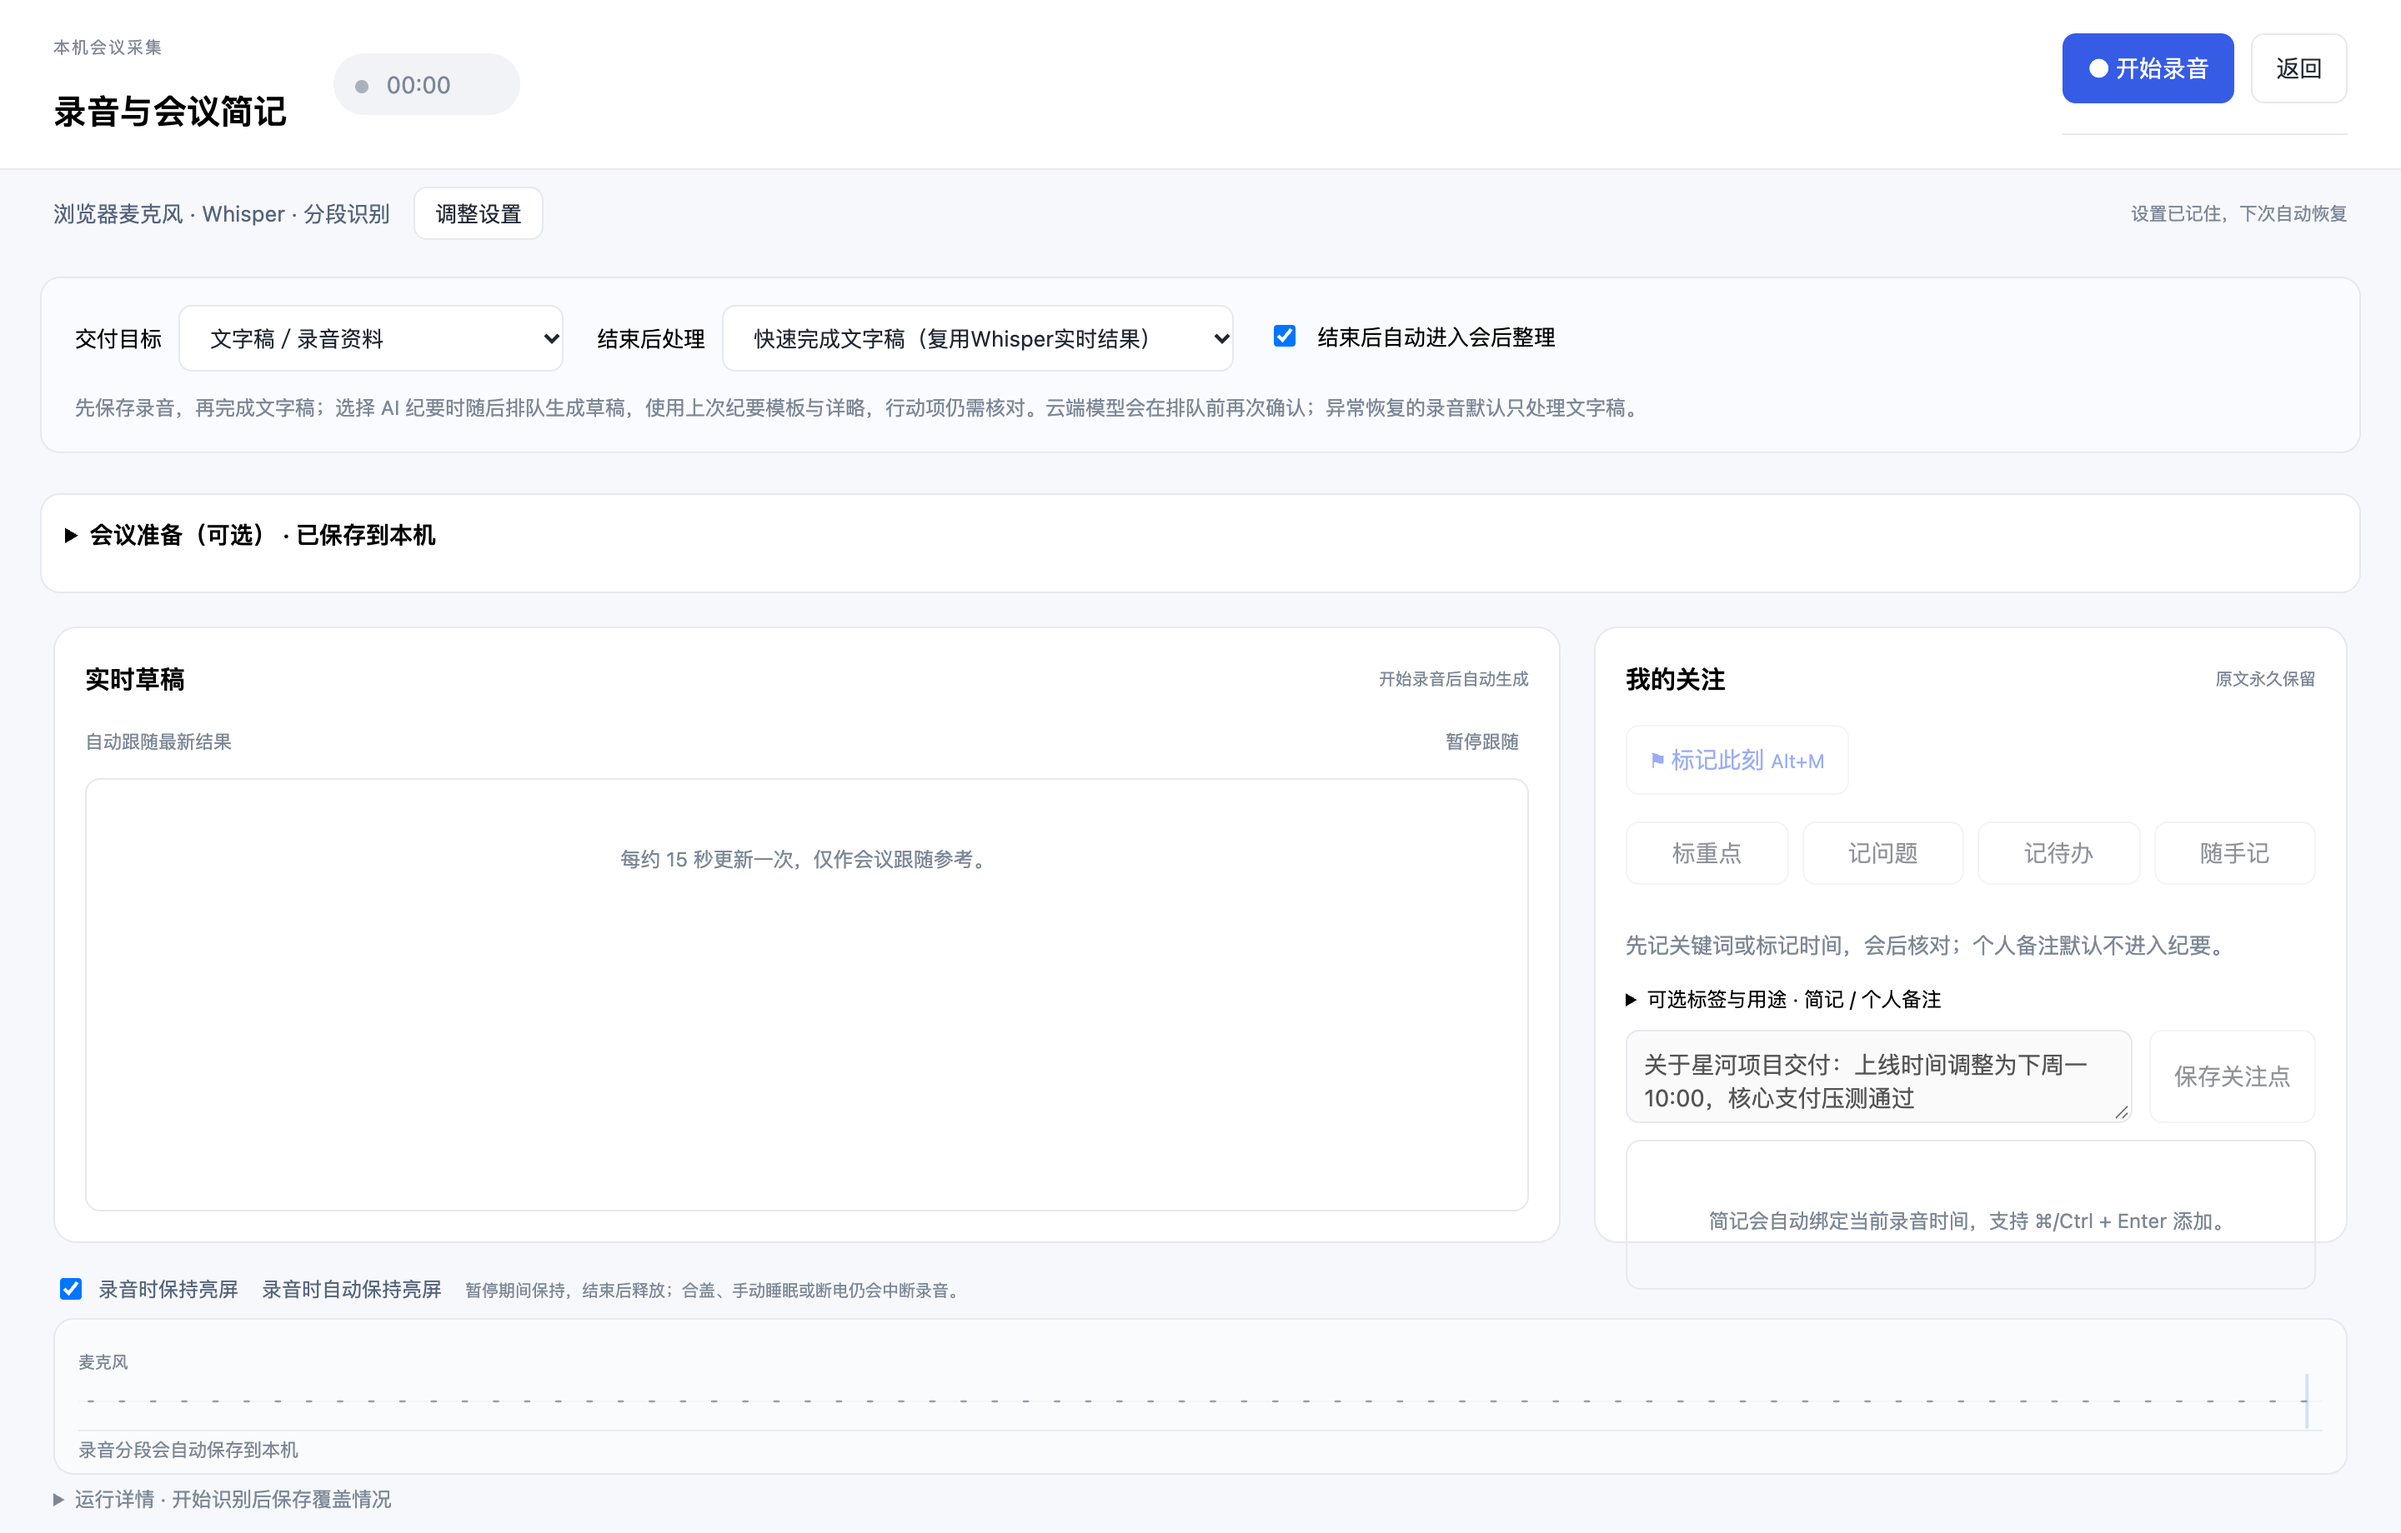
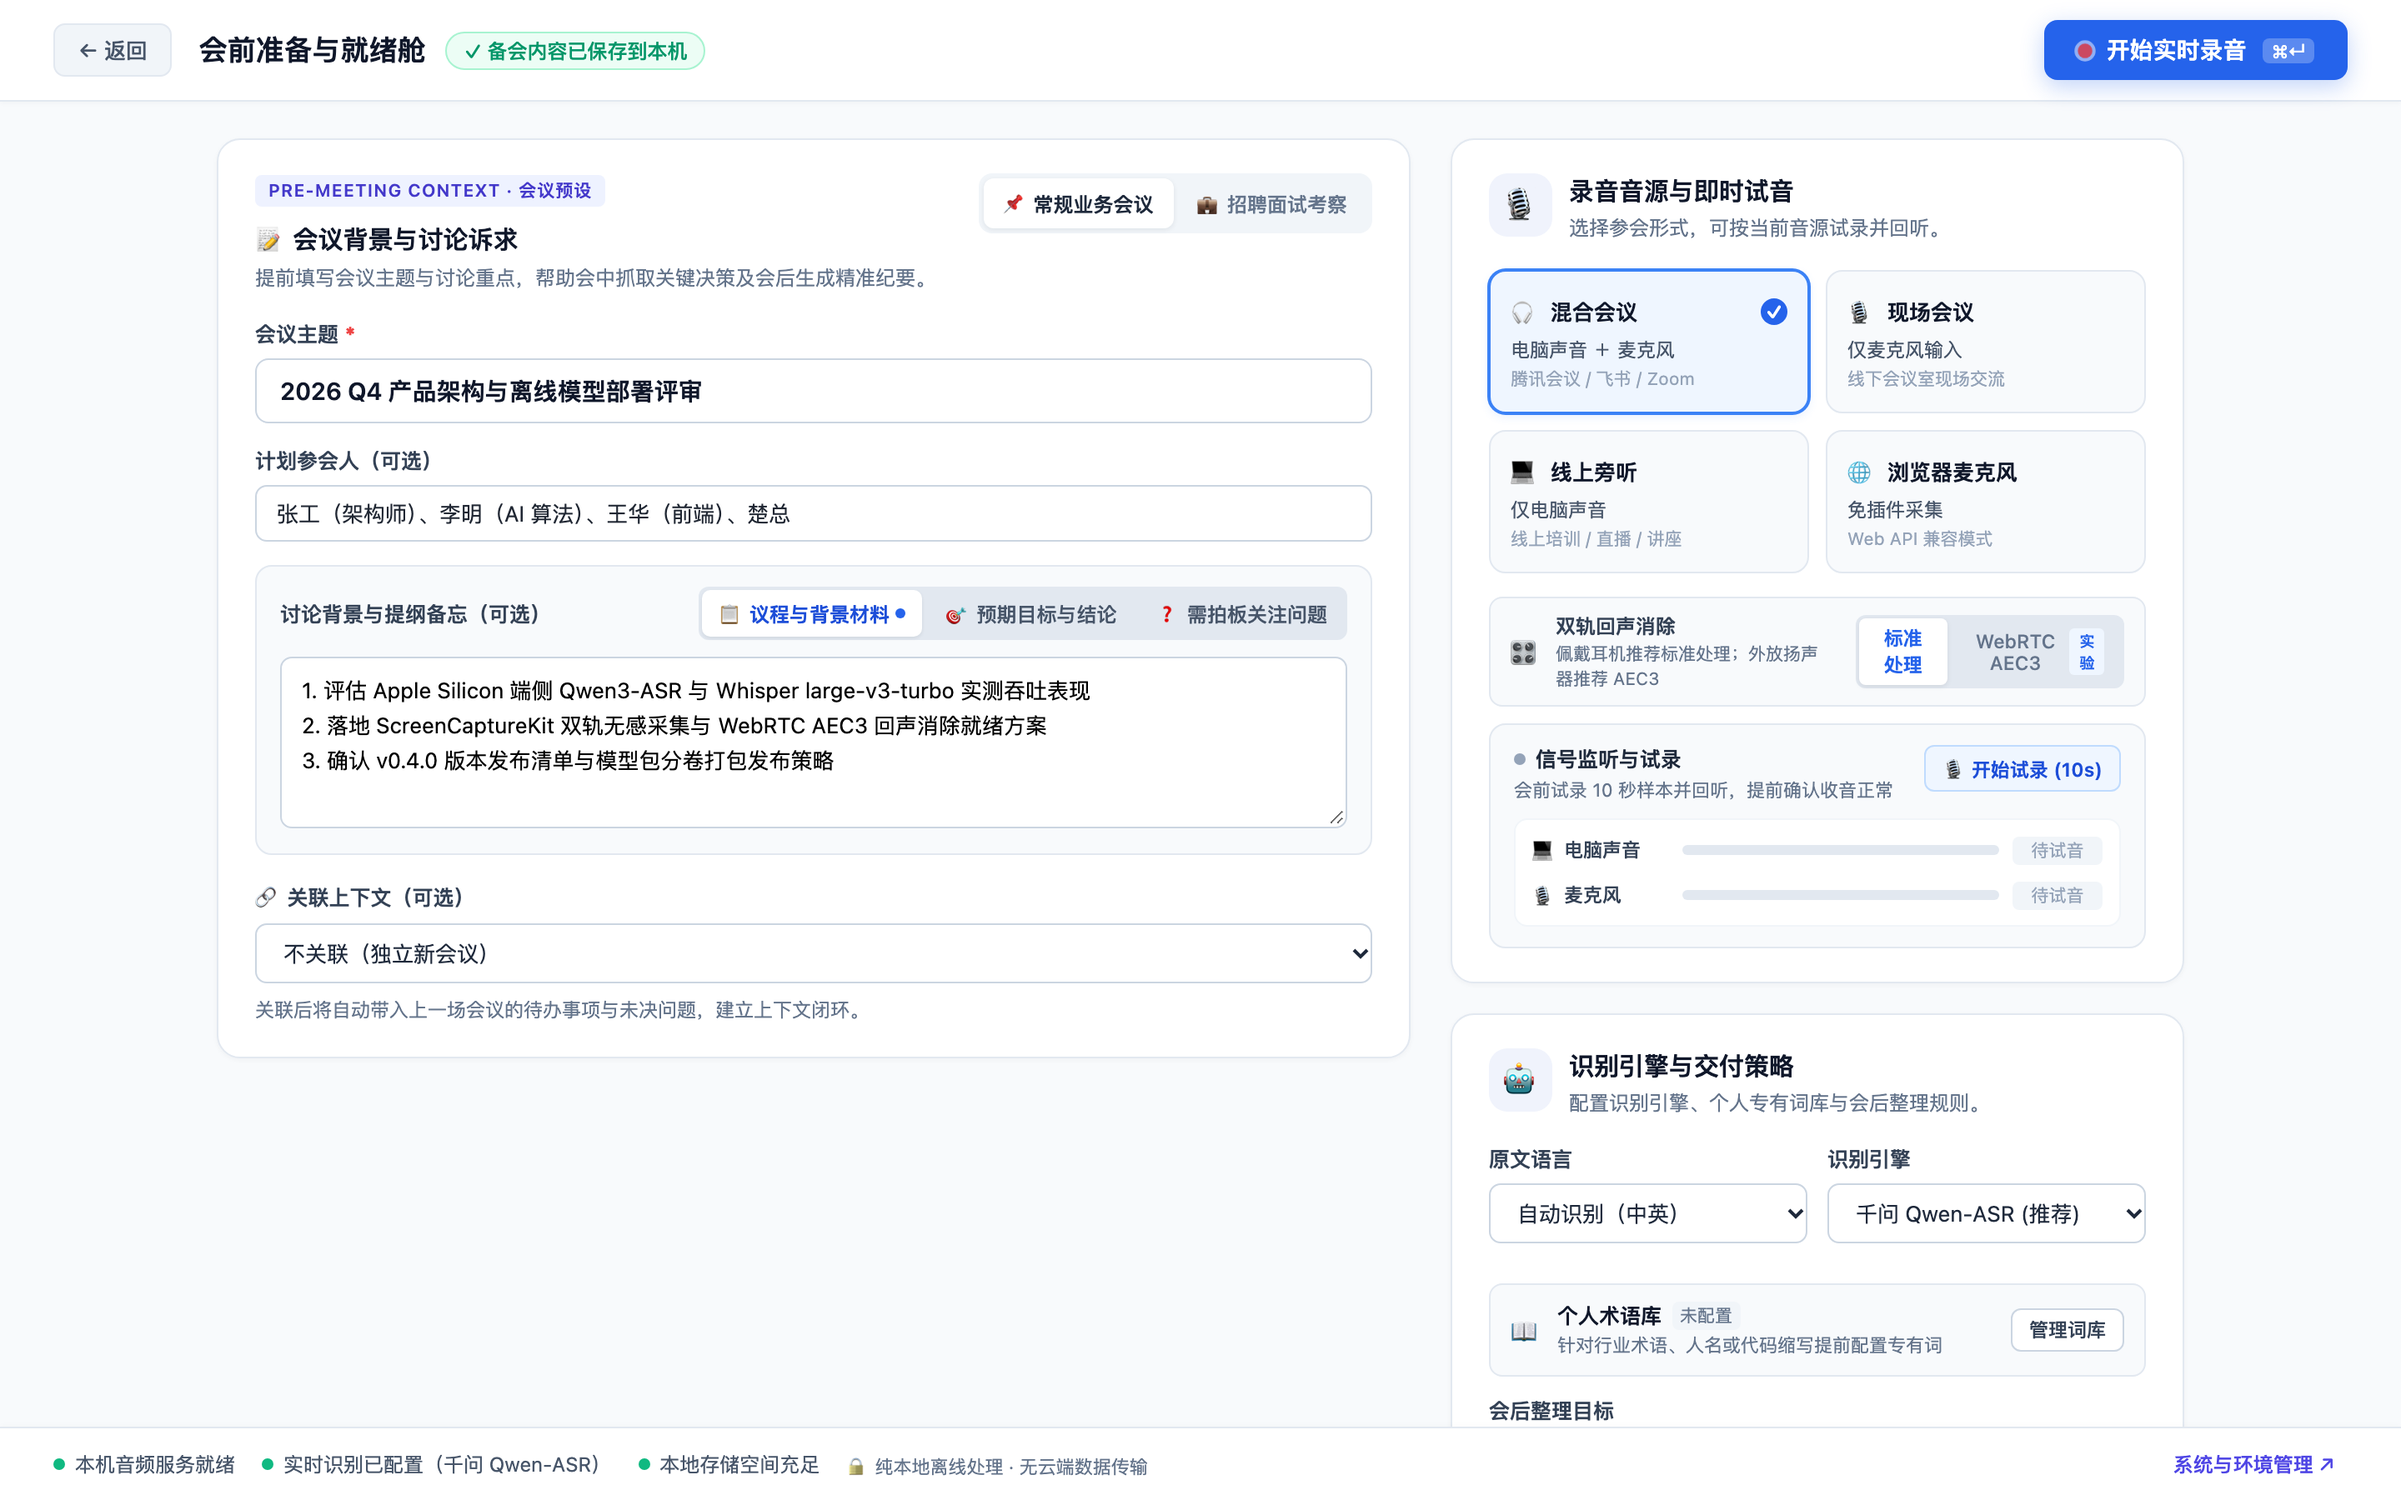
docs: 替换为最新版本会前就绪舱与纪要工作台截图并更新发布说明

diff --git a/README.md b/README.md
@@ -4,11 +4,11 @@
 
 ---
 
-![录音工作台与实时识别](assets/screenshots/01-recording-workbench.png)
-*图 1：会议录音工作台 — 双轨音源试音就绪舱、实时语音转写与要点记录*
+![会前准备与就绪舱](assets/screenshots/01-recording-workbench.png)
+*图 1：会前准备与就绪舱 — 双轨音源即时试音、议程背景预设与交付策略配置*
 
 ![智能纪要与交付成果](assets/screenshots/03-meeting-outcomes.png)
-*图 2：智能纪要与交付成果 — 议题总结、行动项跟踪与原文逐句核对*
+*图 2：智能纪要与交付成果 — 双栏原文逐句回听核对、结构化结论分析与多版本导出*
 
 ---
 
@@ -43,9 +43,15 @@
 
 ### 方式一：下载预编译应用与模型包（推荐）
 
-1. 从 [Releases 页面](../../releases) 下载最新版本的 `Tingji-v0.4.0-macOS.zip` 与完整模型包 `Tingji-Models-v0.1.0.zip`。
-2. 解压并将 `Tingji.app` 移动至 `/Applications` 应用程序目录。
-3. 双击打开 `Tingji.app`，在工作台「运行管理 → 模型」中选择导入下载的模型包 ZIP，即可完成离线就绪。
+1. 从 Release 页面下载最新版本产物（提供 [Gitea 镜像](https://git.seeknow.cn:8010/crf/meeting-local/releases/tag/v0.4.0) 或 [GitHub Releases](https://github.com/rfchu/meeting-local/releases/tag/v0.4.0)）：
+   - `Tingji-v0.4.0-macOS.zip`（原生 macOS 桌面工作台，解压后拖入 `/Applications` 即可运行）
+   - `TingjiCapture-v0.4.0-macOS.zip`（双轨低延迟音频采集器）
+   - `Tingji-Models-v0.1.0.zip`（完整端侧离线模型包，由于单文件体积限制以 1.8GB 分卷提供 `part-aa`、`part-ab`、`part-ac`）
+2. 若下载了分卷模型包，可在终端合并为完整 ZIP：
+   ```bash
+   cat Tingji-Models-v0.1.0.zip.part-* > Tingji-Models-v0.1.0.zip
+   ```
+3. 打开 `Tingji.app`，进入「运行管理 → 智能模型 → 模型与服务」，点击导入已合并的模型包 ZIP，即可完成端侧离线就绪。
 
 ### 方式二：本机源码运行（开发者）
 
